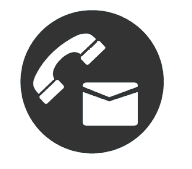
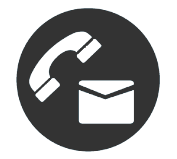
service section looking so peng :fire:

diff --git a/_includes/services.html b/_includes/services.html
@@ -6,32 +6,32 @@
         <div class="row">
           <div class="col-md-4 col-sm-6">
             <div class="service-item">
-              <img class="service-img" src="img/person3-icon.png">
+              <img class="service-img" id="who-icon" src="img/person3-icon.png">
               <h4>
                 <strong>Who I am</strong>
               </h4>
               <p>Lorem ipsum dolor sit amet, consectetur adipisicing elit.</p>
-              <a href="#whoiam" class="service-btn btn btn-dark btn-lg">Learn More</a>
+              <a href="#whoiam" id="who-btn" class="service-btn btn btn-dark btn-lg">Learn More</a>
             </div>
           </div>
           <div class="col-md-4 col-sm-6">
             <div class="service-item">
-              <img class="service-img" src="img/portfolio-icon.png">
+              <img class="service-img" id="port-icon" src="img/portfolio-icon.png">
               <h4>
                 <strong>Service Name</strong>
               </h4>
               <p>Lorem ipsum dolor sit amet, consectetur adipisicing elit.</p>
-              <a href="#" class="service-btn btn btn-dark btn-lg">Learn More</a>
+              <a href="#" id="port-btn" class="service-btn btn btn-dark btn-lg">Learn More</a>
             </div>
           </div>
           <div class="col-md-4 col-sm-6">
             <div class="service-item">
-            <img class="service-img" src="img/contact-icon.png">
+            <img class="service-img" id="con-icon" src="img/contact-icon.png">
               <h4>
                 <strong>Service Name</strong>
               </h4>
               <p>Lorem ipsum dolor sit amet, consectetur adipisicing elit.</p>
-              <a href="#" class="service-btn btn btn-dark btn-lg">Learn More</a>
+              <a href="#" id="con-btn" class="service-btn btn btn-dark btn-lg">Learn More</a>
             </div>
           </div>
         </div>

diff --git a/css/stylish-portfolio.css b/css/stylish-portfolio.css
@@ -35,14 +35,14 @@ body {
 .btn-dark {
     border-radius: 0;
     color: #fff;
-    background-color: rgba(0,0,0,0.4);
+    background-color: rgba(51,51,51, 0.6);
 }
 
 .btn-dark:hover,
 .btn-dark:focus,
 .btn-dark:active {
     color: #fff;
-    background-color: rgba(0,0,0,0.7);
+    background-color: rgba(51,51,51,1);
 }
 
 .btn-light {
@@ -185,6 +185,7 @@ hr.small {
 }
 
 #aboutMeText {
+  font-size: 36px;
   background: #fffcdc;
   background: -webkit-linear-gradient(to left, #d9a7c7, #fffcdc); /
   background: -o-linear-gradient(to left, #d9a7c7, #fffcdc);
@@ -211,6 +212,7 @@ hr.small {
 .service-img {
   height: 160px;
   width: :160px;
+  opacity: 0.6;
 }
 
 .service-item {
@@ -220,6 +222,9 @@ hr.small {
 
 .service-btn {
   border-radius: 100px;
+  /*background-color: #333;
+  opacity: 0.6;
+  color: white;*/
 }
 
 /* Callout */

diff --git a/js/custom.js b/js/custom.js
@@ -50,4 +50,28 @@ $(() => {
     $(this).find('#findOut').delay(950).fadeTo(1800, 1);
   });
 
+  $('#who-btn').mouseenter(function() {
+    $('#who-icon').fadeTo(50, 1);
+  });
+
+  $('#who-btn').mouseleave(function() {
+    $('#who-icon').fadeTo(50, 0.6);
+  });
+
+  $('#port-btn').mouseenter(function() {
+    $('#port-icon').fadeTo(50, 1);
+  });
+
+  $('#port-btn').mouseleave(function() {
+    $('#port-icon').fadeTo(50, 0.6);
+  });
+
+  $('#con-btn').mouseenter(function() {
+    $('#con-icon').fadeTo(50, 1);
+  });
+
+  $('#con-btn').mouseleave(function() {
+    $('#con-icon').fadeTo(50, 0.6);
+  });
+
 });
